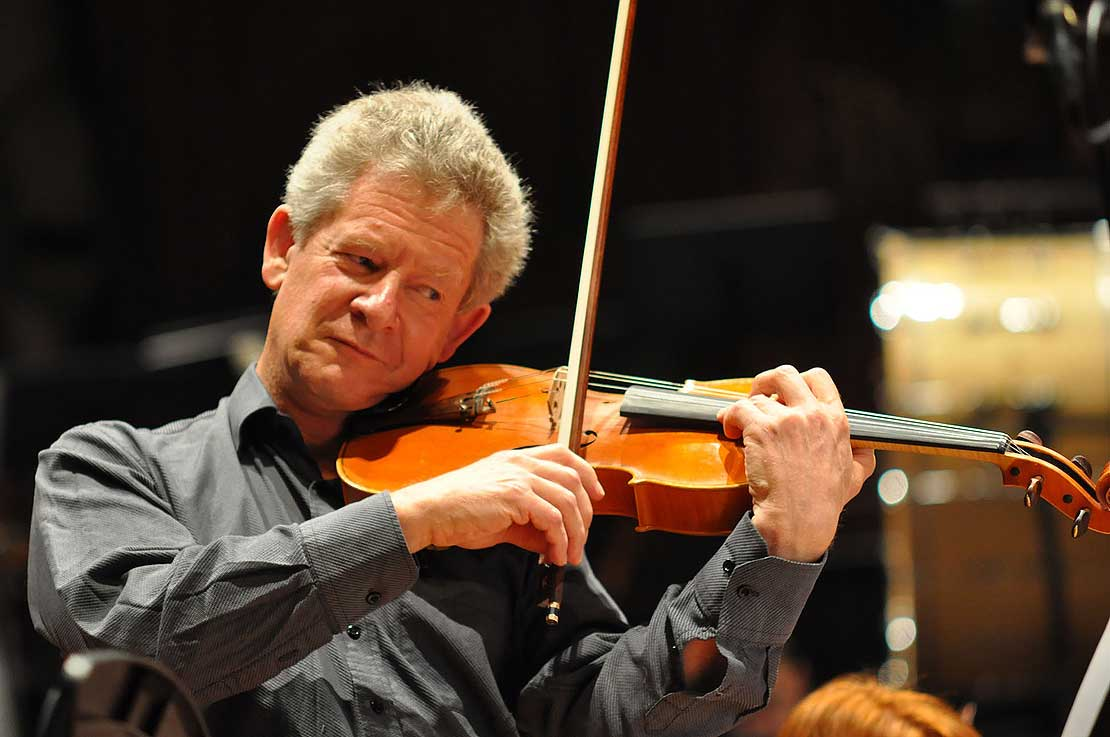
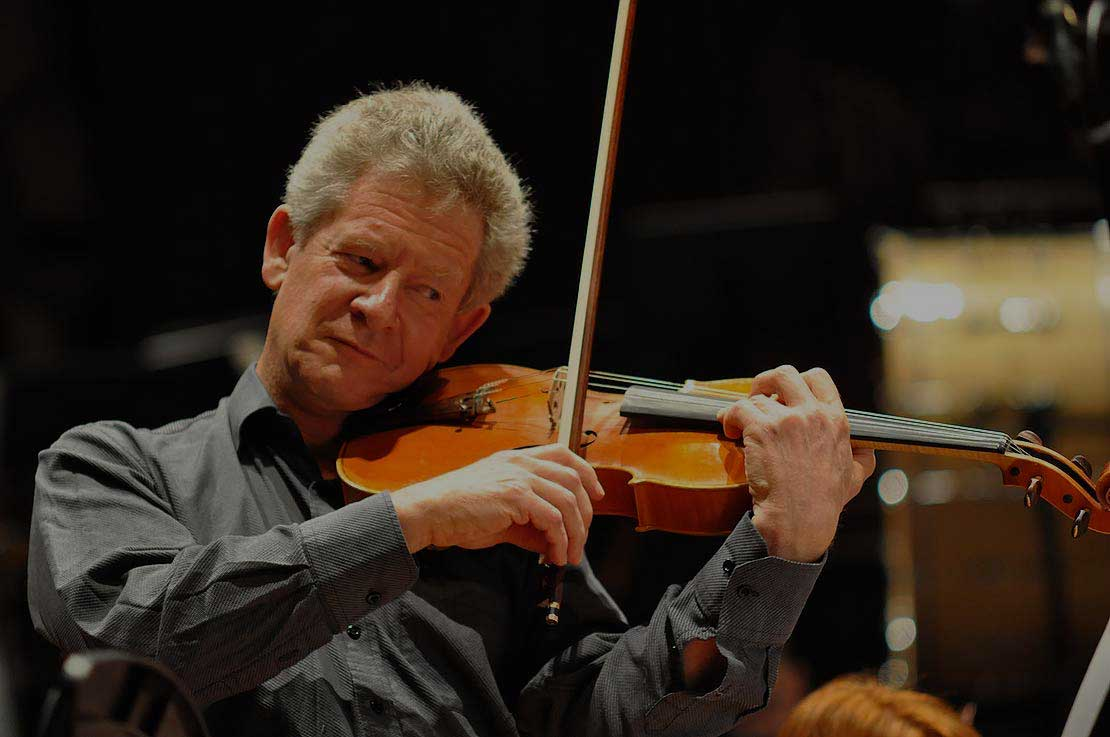
styled splash

diff --git a/components/Footer.js b/components/Footer.js
@@ -8,40 +8,38 @@ export default function Footer() {
         <div>
           <img src="/logo-dark.png" className="w-36" />
         </div>
-        <div className="flex mt-4 -mx-2">
-          <a
-            target="blank"
-            href="https://www.facebook.com/RimuFest/"
-            className="mx-2 text-gray-700 dark:text-gray-200 hover:text-gray-600 dark:hover:text-gray-400"
-            aria-label="Facebook"
-          >
-            <svg
-              xmlns="http://www.w3.org/2000/svg"
-              className="w-4 h-4 fill-current"
-              viewBox="0 0 24 24"
+        <div className="py-8">
+          <div className="flex mt-4 -mx-2">
+            <a
+              target="blank"
+              href="https://www.facebook.com/RimuFest/"
+              className="mx-2 text-gray-700 dark:text-gray-200 hover:text-gray-600 dark:hover:text-gray-400"
+              aria-label="Facebook"
             >
-              <path d="M22.675 0h-21.35c-.732 0-1.325.593-1.325 1.325v21.351c0 .731.593 1.324 1.325 1.324h11.495v-9.294h-3.128v-3.622h3.128v-2.671c0-3.1 1.893-4.788 4.659-4.788 1.325 0 2.463.099 2.795.143v3.24l-1.918.001c-1.504 0-1.795.715-1.795 1.763v2.313h3.587l-.467 3.622h-3.12v9.293h6.116c.73 0 1.323-.593 1.323-1.325v-21.35c0-.732-.593-1.325-1.325-1.325z" />
-            </svg>
-          </a>
-          <a
-            target="blank"
-            href="https://www.instagram.com/rimufest/?hl=en"
-            className="mx-2 text-gray-700 dark:text-gray-200 hover:text-gray-600 dark:hover:text-gray-400"
-            aria-label="Instagram"
-          >
-            <svg
-              xmlns="http://www.w3.org/2000/svg"
-              className="w-4 h-4 fill-current"
-              viewBox="0 0 24 24"
+              <svg
+                xmlns="http://www.w3.org/2000/svg"
+                className="w-4 h-4 fill-current"
+                viewBox="0 0 24 24"
+              >
+                <path d="M22.675 0h-21.35c-.732 0-1.325.593-1.325 1.325v21.351c0 .731.593 1.324 1.325 1.324h11.495v-9.294h-3.128v-3.622h3.128v-2.671c0-3.1 1.893-4.788 4.659-4.788 1.325 0 2.463.099 2.795.143v3.24l-1.918.001c-1.504 0-1.795.715-1.795 1.763v2.313h3.587l-.467 3.622h-3.12v9.293h6.116c.73 0 1.323-.593 1.323-1.325v-21.35c0-.732-.593-1.325-1.325-1.325z" />
+              </svg>
+            </a>
+            <a
+              target="blank"
+              href="https://www.instagram.com/rimufest/?hl=en"
+              className="mx-2 text-gray-700 dark:text-gray-200 hover:text-gray-600 dark:hover:text-gray-400"
+              aria-label="Instagram"
             >
-              <path d="M12 2.163c3.204 0 3.584.012 4.85.07 3.252.148 4.771 1.691 4.919 4.919.058 1.265.069 1.645.069 4.849 0 3.205-.012 3.584-.069 4.849-.149 3.225-1.664 4.771-4.919 4.919-1.266.058-1.644.07-4.85.07-3.204 0-3.584-.012-4.849-.07-3.26-.149-4.771-1.699-4.919-4.92-.058-1.265-.07-1.644-.07-4.849 0-3.204.013-3.583.07-4.849.149-3.227 1.664-4.771 4.919-4.919 1.266-.057 1.645-.069 4.849-.069zm0-2.163c-3.259 0-3.667.014-4.947.072-4.358.2-6.78 2.618-6.98 6.98-.059 1.281-.073 1.689-.073 4.948 0 3.259.014 3.668.072 4.948.2 4.358 2.618 6.78 6.98 6.98 1.281.058 1.689.072 4.948.072 3.259 0 3.668-.014 4.948-.072 4.354-.2 6.782-2.618 6.979-6.98.059-1.28.073-1.689.073-4.948 0-3.259-.014-3.667-.072-4.947-.196-4.354-2.617-6.78-6.979-6.98-1.281-.059-1.69-.073-4.949-.073zm0 5.838c-3.403 0-6.162 2.759-6.162 6.162s2.759 6.163 6.162 6.163 6.162-2.759 6.162-6.163c0-3.403-2.759-6.162-6.162-6.162zm0 10.162c-2.209 0-4-1.79-4-4 0-2.209 1.791-4 4-4s4 1.791 4 4c0 2.21-1.791 4-4 4zm6.406-11.845c-.796 0-1.441.645-1.441 1.44s.645 1.44 1.441 1.44c.795 0 1.439-.645 1.439-1.44s-.644-1.44-1.439-1.44z" />
-            </svg>
-          </a>
-        </div>
-        <div className="py-4">
-          <h3 className="text-gray-700 dark:text-white">
-            e-mail: rimufest@gmail.com
-          </h3>
+              <svg
+                xmlns="http://www.w3.org/2000/svg"
+                className="w-4 h-4 fill-current"
+                viewBox="0 0 24 24"
+              >
+                <path d="M12 2.163c3.204 0 3.584.012 4.85.07 3.252.148 4.771 1.691 4.919 4.919.058 1.265.069 1.645.069 4.849 0 3.205-.012 3.584-.069 4.849-.149 3.225-1.664 4.771-4.919 4.919-1.266.058-1.644.07-4.85.07-3.204 0-3.584-.012-4.849-.07-3.26-.149-4.771-1.699-4.919-4.92-.058-1.265-.07-1.644-.07-4.849 0-3.204.013-3.583.07-4.849.149-3.227 1.664-4.771 4.919-4.919 1.266-.057 1.645-.069 4.849-.069zm0-2.163c-3.259 0-3.667.014-4.947.072-4.358.2-6.78 2.618-6.98 6.98-.059 1.281-.073 1.689-.073 4.948 0 3.259.014 3.668.072 4.948.2 4.358 2.618 6.78 6.98 6.98 1.281.058 1.689.072 4.948.072 3.259 0 3.668-.014 4.948-.072 4.354-.2 6.782-2.618 6.979-6.98.059-1.28.073-1.689.073-4.948 0-3.259-.014-3.667-.072-4.947-.196-4.354-2.617-6.78-6.979-6.98-1.281-.059-1.69-.073-4.949-.073zm0 5.838c-3.403 0-6.162 2.759-6.162 6.162s2.759 6.163 6.162 6.163 6.162-2.759 6.162-6.163c0-3.403-2.759-6.162-6.162-6.162zm0 10.162c-2.209 0-4-1.79-4-4 0-2.209 1.791-4 4-4s4 1.791 4 4c0 2.21-1.791 4-4 4zm6.406-11.845c-.796 0-1.441.645-1.441 1.44s.645 1.44 1.441 1.44c.795 0 1.439-.645 1.439-1.44s-.644-1.44-1.439-1.44z" />
+              </svg>
+            </a>
+          </div>
+          <h3 className="mt-4 text-sm">rimufest@gmail.com</h3>
         </div>
 
         {/* <div className="mt-6  lg:mt-0 lg:flex-1">
@@ -83,7 +81,7 @@ export default function Footer() {
 
         {/* <hr className="h-px my-6 bg-white border-none dark:bg-gray-700" /> */}
 
-        <div className="py-8">
+        <div className="">
           <p className="text-center text-xs text-white">
             © Rimufest 2021 - All rights reserved
           </p>

diff --git a/components/Splash.js b/components/Splash.js
@@ -7,8 +7,9 @@ export default function Splash() {
 
   return (
     <>
-      <div className="container w-full mx-auto">
-        <div className="md:flex md:flex-row-reverse">
+      <div>
+        <div className="w-full mx-auto">
+          <div className="md:flex md:flex-row-reverse"></div>
           <div className="">
             <Image
               src="/splash.png"
@@ -44,56 +45,30 @@ export default function Splash() {
         </div>
       </div>
 
-      <div className="p-8">
-        {/* <h2 className="text-2xl font-semibold text-gray-800 text-white md:text-3xl">Rimufest <span className="text-indigo-600 text-indigo-400">Mexico Online 2022</span></h2> */}
-
-        <p className="">Rimufest</p>
-        <p className="">is a chamber music festival </p>
-        <p className="">and academy</p>
-        <p className="">we inspire</p>
-        <p className="">the youth</p>
-        {/* <p className="mb-8">{t("blurb")}</p> */}
-
-        {/* <div className="flex mt-6">
-              <a href="#" className="block px-3 py-2 text-xs font-semibold text-white transition-colors duration-200 transform bg-gray-900 rounded-md hover:bg-gray-700">Apply</a>
-              <a
-              href="#"
-              className="block px-3 py-2 mx-4 text-xs font-semibold text-pink transition-colors duration-200 transform bg-gray-200 rounded-md hover:bg-gray-300"
-              >
-              Learn More
-              </a>
-            </div> */}
-        {/* <Button label={"Learn more"} /> */}
+      <div className="px-8 py-16">
+        <div className="flex items-center">
+          <p className="text-4xl mr-2">Rimufest</p>
+          <p className="text-">is a</p>
+        </div>
+        <div className="flex items-center">
+          <p className="text-xl mr-2">chamber music festival </p>
+          <p className="text-lg ml-2">{"&"}</p>
+        </div>
+        <div className="flex items-center">
+          <p className="text-3xl">academy</p>
+        </div>
+        <div className="flex items-center">
+          <p className="mr-2">we</p>
+          <p className="text-4xl text-pink">inspire</p>
+        </div>
+        <p className="text-2xl">the youth</p>
       </div>
-      <div className="h-100 bg-no-repeat bg-contain  bg-splash-student"></div>
 
-      {/* <section className="overflow-x-auto lg:py-12 lg:flex lg:justify-center"> */}
-      {/* <section className="overflow-x-auto mx-auto bg-gray-900 py-56 lg:flex sm:w-4/5 w-full lg:justify-center">
-        <h1 className="text-8xl text-green">Festivals</h1>
-        <EventCard
-          imgSrc="mx"
-          imgAlt="Rimufest MX-icon 2021"
-          title="RimuFest MX Online 2021"
-          p="Lorem ipsum dolor sit amet consectetur adipisicing elit. Quae dolores deserunt ea doloremque natus error, rerum quas odio quaerat nam ex commodi hic, suscipit in a veritatis pariatur minus consequuntur!"
-          // href='/events/'
-        />
+      <div className="my-8 py-8">
+        <div className="bg-cover bg-splash-student justify-end flex flex-col w-screen h-72"></div>
+      </div>
 
-        <EventCard
-          imgSrc="nz"
-          imgAlt="Holliday Program"
-          title="Holiday Program"
-          p="Lorem ipsum dolor sit amet consectetur adipisicing elit. Quae dolores deserunt ea doloremque natus error, rerum quas odio quaerat nam ex commodi hic, suscipit in a veritatis pariatur minus consequuntur!"
-          // href='/events/'
-        />
-
-        <EventCard
-          imgSrc="nz"
-          imgAlt="Rimufest NZ"
-          title="RimuFest NZ 2022"
-          p="Lorem ipsum dolor sit amet consectetur adipisicing elit. Quae dolores deserunt ea doloremque natus error, rerum quas odio quaerat nam ex commodi hic, suscipit in a veritatis pariatur minus consequuntur!"
-          // href='/events/'
-        />
-      </section> */}
+      <p className="p-8 py-16 my-8">{t("blurb")}</p>
     </>
   );
 }

diff --git a/components/Appbar.js b/components/Appbar.js
@@ -37,21 +37,19 @@ export default function Appbar({ children }) {
     // router.push(router.pathname, router.asPath.replace(regex, `/${language}`));
   }
 
-  console.log("path", path);
-
   function onSwitch() {
     setTheme(theme === "dark" ? "light" : "dark");
     setEnabled();
   }
 
   return (
-    <nav className="bg-white shadow dark:bg-gray-800">
+    <nav className="bg-white text-pink shadow dark:bg-gray-800">
       <div className="container px-6 py-6 mx-auto">
         <div className="md:flex md:items-center md:justify-between">
           <div className="flex items-center justify-between">
             {/* <div> */}
             <Link href="/">
-              <div className="w-28 h-14 md:w-36 md:h-18 bg-contain bg-no-repeat bg-logo-dark" />
+              <div className="w-28 mt-2 h-14 md:w-36 md:h-18 bg-contain bg-no-repeat bg-logo-dark" />
             </Link>
             {/* <Link href='/'>
                 <Image
@@ -70,10 +68,10 @@ export default function Appbar({ children }) {
               <button
                 onClick={() => setOpenMenu(openMenu === true ? false : true)}
                 type="button"
-                className="text-gray-500 dark:text-gray-200 hover:text-gray-600 dark:hover:text-gray-400 focus:outline-none focus:text-gray-600 dark:focus:text-gray-400"
+                className="-top-4 text-gray-500 dark:text-gray-200 hover:text-gray-600 dark:hover:text-gray-400 focus:outline-none focus:text-gray-600 dark:focus:text-gray-400"
                 aria-label="toggle menu"
               >
-                <svg viewBox="0 0 24 24" className="w-6 h-6 fill-current">
+                <svg viewBox="0 0 24 24" className="w-6 pink h-6 fill-current">
                   <path
                     fillRule="evenodd"
                     d="M4 5h16a1 1 0 0 1 0 2H4a1 1 0 1 1 0-2zm0 6h16a1 1 0 0 1 0 2H4a1 1 0 0 1 0-2zm0 6h16a1 1 0 0 1 0 2H4a1 1 0 0 1 0-2z"

diff --git a/components/ConcertCard.js b/components/ConcertCard.js
@@ -8,7 +8,7 @@ export default function ParagraphWithImage(props) {
   // console.log(imgSrc)
 
   return (
-    <div className="my-8 text-pink border-2 border-pink rounded-lg w-auto p-6">
+    <div className="my-8 border-2 border-pink rounded-lg w-auto p-6">
       <h2 className="text-xl uppercase font-title font-bold md:text-4xl">
         {title}
         <span className="text-indigo-600 dark:text-indigo-400">{title2}</span>

diff --git a/pages/concerts/[id].js b/pages/concerts/[id].js
@@ -1,4 +1,3 @@
-import Head from "next/head";
 import { getAllConcertIds, getConcertData } from "../../lib/concerts";
 import Date from "../../components/date";
 import Hero from "../../components/Hero";

diff --git a/components/Hero.js b/components/Hero.js
@@ -1,5 +1,4 @@
 export default function Hero({ bgImage, children }) {
-  console.log(bgImage);
   return (
     <div
       style={{

diff --git a/content/concerts/student-concert-2021-holiday-program.md b/content/concerts/student-concert-2021-holiday-program.md
@@ -9,6 +9,5 @@ timeDoorsOpen: "1:15pm"
 donation: "true"
 address: "159 17th Avenue, Tauranga 3112, New Zealand"
 runtime: "45 min"
-description: "Come and support the students of RimuFest as they showcase their hard work from this year's holiday programme. Students will be featured in the Viola ensemble led by Donald Maurice and in solo. 
-"
+description: "Come and support the students of RimuFest as they showcase their hard work from this year's holiday programme. Students will be featured in the Viola ensemble led by Donald Maurice and in solo."
 ---
